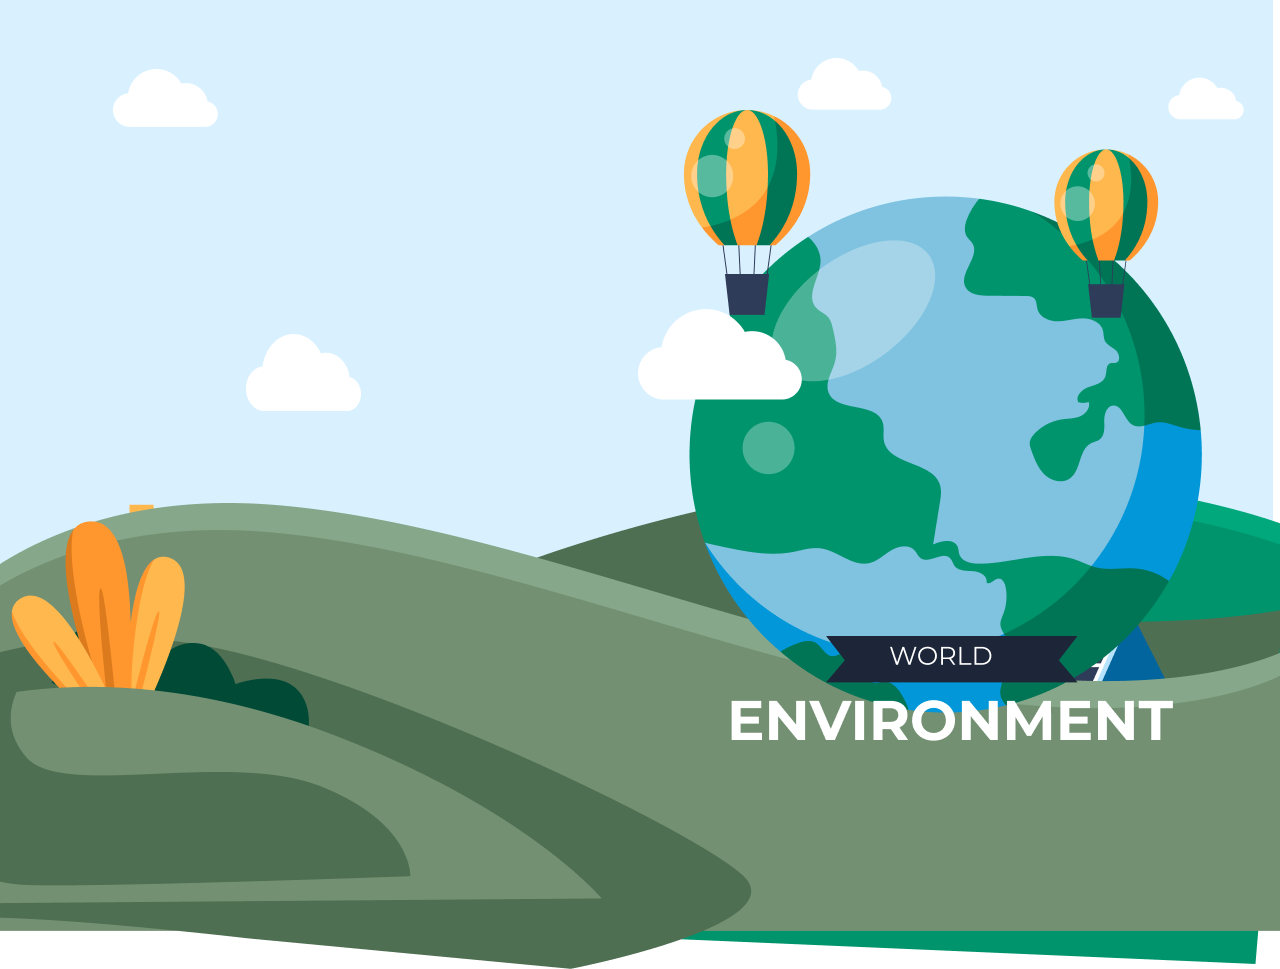
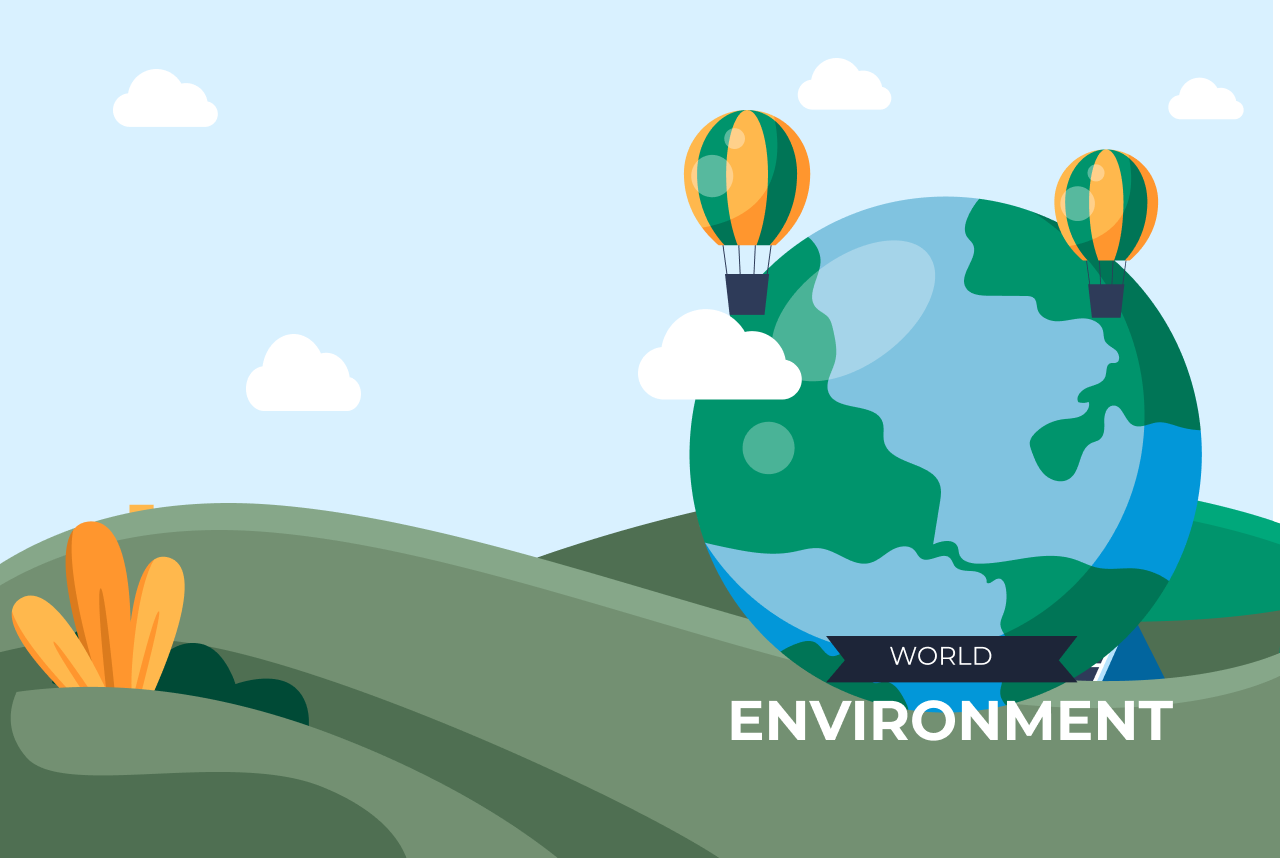
add landing page component

diff --git a/sampah/templates/index.html b/sampah/templates/index.html
@@ -3,26 +3,151 @@
 {% block title %}LAHHGO{% endblock %}
 {% block content %}
 {% include "navbar.html" %}
+<!-- For a more sustainable future -->
 <div class="bg-blue-200 relative w-full h-screen">
-    <img class=" absolute w-full" src="{% static 'landing_hero.png' %}" />
+    <img class=" absolute w-screen" src="{% static 'landing_hero.png' %}" />
     <div class="w-3/4 h-screen ml-10 flex flex-col justify-center">
-    <h1 style='font-size:60px; color:#4F6F52' class="font-bold w-1/2 relative z-20">For a more sustainable future</h1>
-    <h2 style='font-size:40px; color:#4F6F52' class="relative z-20 w-1/2">lets preserve the earth together</h2>
-    <br>
-    <div class="z-20 space-x-4">
-        <button style="color:#3A855D; width:149px;" class="bg-white text-lg font-bold py-2 px-2 rounded-lg shadow-md">Beli</button>
-        <button style="background-color:#4F6F52; width:149px;" class="text-white text-lg font-bold py-2 px-2 rounded-lg shadow-md">Jual</button>
-    </div>
+        <h1 style='font-size:60px; color:#4F6F52' class="font-bold w-1/2 relative z-20">For a more sustainable future</h1>
+        <h2 style='font-size:40px; color:#4F6F52' class="relative z-20 w-1/2">lets preserve the earth together</h2>
+        <br>
+        <div class="z-20 flex flex-row space-x-20 items-center">
+            <div class="flex   space-x-[-15px] size-12">
+                <img class="" src="{% static 'profile.png' %}" alt="Profile">
+                <img class="" src="{% static 'profile.png' %}" alt="Profile">
+                <img class="" src="{% static 'profile.png' %}" alt="Profile">
+            </div>
+            <p class="">
+                Join with <b>4600+ Team</b> and start <br> getting feedbacks right now
+            </p>
+        </div>
+        
+        <div class="z-20 space-x-4 mt-8">
+            <button style="color:#3A855D; width:149px;" class="bg-white text-lg font-bold py-2 px-2 rounded-lg shadow-md font-serif">Beli</button>
+            <button style="background-color:#4F6F52; width:149px;" class="text-white text-lg font-bold py-2 px-2 rounded-lg shadow-md font-serif">Jual</button>
+        </div>
     </div>
 </div>
-<div>
-    {% comment %} <h1>Produk daur ulang terlaris</h1> {% endcomment %}
-    <br/>
-    <div>
-    <h1 >Produk daur ulang terlaris</h1>
-    {% include "cards.html" with path='lego.png' %}
-    </div>
+<br><br><br><br><br><br><br><br><br><br><br><br><br><br>
 
+<!-- Produk daur ulang terlaris -->
+<div class="z-50 bg-green-100 font-sans max-h-screen">
+    <div class="max-w-screen mx-auto py-4">
+        <h2 class=" text-center text-5xl font-semibold mt-4 mb-10 text-[#4F6F52]">Produk daur ulang terlaris</h2>
+        <div class="flex flex-row justify-center gap-12 border-y-2 py-5 border-[#4F6F52] px-4">
+            {% include 'cards.html' with path='cart.svg' %}
+            {% include 'cards.html' with path='cart.svg' %}
+            {% include 'cards.html' with path='cart.svg' %}
+            {% include 'cards.html' with path='cart.svg' %}
+        </div>
+        <h2 class="text-center text-3xl font-semibold mt-4 text-[#4F6F52]">
+            More Product >
+        </h2>
+    </div>
+</div>
+
+
+    <!-- Sampah Terdekat -->
+<div class="z-25 bg-[#4F6F52] font-sans max-h-screen">
+    <div class="max-w-screen mx-auto p-4">
+        <h2 class=" text-center text-5xl font-semibold mt-3 mb-10 text-[#FFFFFF]">Sampah terdekat</h2>
+        <div class="flex flex-row justify-center gap-12 border-y-2 py-5 border-[#fff] px-4">
+            <!-- Card 1 -->
+            <div class="flex flex-row gap-12 justify-start">
+                <div class="bg-[#D2E3C8] rounded-3xl h-128">
+                    <img class="w-250 h-250 rounded-3xl gap-6" src="{% static 'lego.png' %}" alt="">
+                    <div class="mx-4 my-3">
+                        <h3 class="font-serif text-[#4F6F52] text-xl"
+                        >
+                            Keping LAHHGO
+                        </h3>
+                        <p class="font-sans text-[#4F6F52] text-2xl font-semibold">Rp 50.000,00</p>
+                    </div>
+                    <div class="mx-4 my-3 flex flex-row justify-end gap-3">
+                        <button class="rounded-xl bg-[#fff] p-2 w-auto">
+                            <img class="size-6 " src="{% static 'cart.svg' %}" alt="cart"/>
+                        </button>
+                        <button class="bg-[#4F6F52] rounded-xl py-1 px-4 border border-gray-300 shadow-md flex items-center justify-center">
+                            <h4 class="text-center text-xl font-serif text-[#D2E3C8]">
+                                Beli
+                            </h4>
+                        </button>                        
+                    </div>
+                </div>
+            </div>
+            <!-- Card 2 -->
+            <div class="flex flex-row gap-12 justify-start">
+                <div class="bg-[#D2E3C8] rounded-3xl h-128">
+                    <img class="w-250 h-250 rounded-3xl gap-6" src="{% static 'lego.png' %}" alt="">
+                    <div class="mx-4 my-3">
+                        <h3 class="font-serif text-[#4F6F52] text-xl"
+                        >
+                            Keping LAHHGO
+                        </h3>
+                        <p class="font-sans text-[#4F6F52] text-2xl font-semibold">Rp 50.000,00</p>
+                    </div>
+                    <div class="mx-4 my-3 flex flex-row justify-end gap-3">
+                        <button class="rounded-xl bg-[#fff] p-2 w-auto">
+                            <img class="size-6 " src="{% static 'cart.svg' %}" alt="cart"/>
+                        </button>
+                        <button class="bg-[#4F6F52] rounded-xl py-1 px-4 border border-gray-300 shadow-md flex items-center justify-center">
+                            <h4 class="text-center text-xl font-serif text-[#D2E3C8]">
+                                Beli
+                            </h4>
+                        </button>                        
+                    </div>
+                </div>
+            </div>
+            <!-- Card 3 -->
+            <div class="flex flex-row gap-12 justify-start">
+                <div class="bg-[#D2E3C8] rounded-3xl h-128">
+                    <img class="w-250 h-250 rounded-3xl gap-6" src="{% static 'lego.png' %}" alt="">
+                    <div class="mx-4 my-3">
+                        <h3 class="font-serif text-[#4F6F52] text-xl"
+                        >
+                            Keping LAHHGO
+                        </h3>
+                        <p class="font-sans text-[#4F6F52] text-2xl font-semibold">Rp 50.000,00</p>
+                    </div>
+                    <div class="mx-4 my-3 flex flex-row justify-end gap-3">
+                        <button class="rounded-xl bg-[#fff] p-2 w-auto">
+                            <img class="size-6 " src="{% static 'cart.svg' %}" alt="cart"/>
+                        </button>
+                        <button class="bg-[#4F6F52] rounded-xl py-1 px-4 border border-gray-300 shadow-md flex items-center justify-center">
+                            <h4 class="text-center text-xl font-serif text-[#D2E3C8]">
+                                Beli
+                            </h4>
+                        </button>                        
+                    </div>
+                </div>
+            </div>
+            <!-- Card 4 -->
+            <div class="flex flex-row gap-12 justify-start">
+                <div class="bg-[#D2E3C8] rounded-3xl h-128">
+                    <img class="w-250 h-250 rounded-3xl gap-6" src="{% static 'lego.png' %}" alt="">
+                    <div class="mx-4 my-3">
+                        <h3 class="font-serif text-[#4F6F52] text-xl"
+                        >
+                            Keping LAHHGO
+                        </h3>
+                        <p class="font-sans text-[#4F6F52] text-2xl font-semibold">Rp 50.000,00</p>
+                    </div>
+                    <div class="mx-4 my-3 flex flex-row justify-end gap-3">
+                        <button class="rounded-xl bg-[#fff] p-2 w-auto">
+                            <img class="size-6 " src="{% static 'cart.svg' %}" alt="cart"/>
+                        </button>
+                        <button class="bg-[#4F6F52] rounded-xl py-1 px-4 border border-gray-300 shadow-md flex items-center justify-center">
+                            <h4 class="text-center text-xl font-serif text-[#D2E3C8]">
+                                Beli
+                            </h4>
+                        </button>                        
+                    </div>
+                </div>
+            </div>
+        </div>
+        <h2 class="text-center text-3xl font-semibold mt-4 text-[#ffffff]">
+            More Plastic >
+        </h2>
+    </div>
 </div>
 
 {% endblock %}

diff --git a/sampah/templates/cards.html b/sampah/templates/cards.html
@@ -1,10 +1,23 @@
 {% load static %}
-<div class="card rounded-lg shadow-md" style="width: 18rem;">
-  <img class="card-img-top" src="{% static path %}" alt="Card image cap">
-  <div class="card-body">
-    <h5 class="card-text font-bold text-xl">Card title</h5>
-    <p class="card-text text-gray-400 text-md">@JohnDoe</p>
-    <br>
-    <p class="card-text text-sm font-semibold" style="color: #4f6f52">Klik untuk mengedit</p>
+<div class="flex flex-row gap-12 justify-start">
+  <div class="bg-[#4F6F52] rounded-3xl h-128">
+    <img class="w-250 h-250 rounded-3xl gap-6" src="{% static 'lego.png' %}" alt="">
+    <div class="mx-4 my-3">
+        <h3 class="font-serif text-[#D2E3C8] text-xl"
+        >
+            Keping LAHHGO
+        </h3>
+        <p class="font-sans text-[#D2E3C8] text-2xl font-semibold">Rp 50.000,00</p>
+    </div>
+    <div class="mx-4 my-3 flex flex-row justify-end gap-3">
+        <button class="rounded-xl bg-[#fff] p-2 w-auto">
+            <img class="size-6 " src="{% static 'cart.svg' %}" alt="cart"/>
+        </button>
+        <button class="bg-[#D2E3C8] rounded-xl py-1 px-4 border border-gray-300 shadow-md flex items-center justify-center">
+            <h4 class="text-center text-xl font-serif text-[#4F6F52]">
+                Beli
+            </h4>
+      </button>                        
+    </div>
   </div>
 </div>

diff --git a/sampah/templates/card_2.html b/sampah/templates/card_2.html
@@ -1,0 +1,23 @@
+{% load static %}
+<div class="flex flex-row gap-12 justify-start">
+  <div class="bg-[#D2E3C8] rounded-3xl h-128">
+    <img class="w-250 h-250 rounded-3xl gap-6" src="{% static 'tutup-botol.png' %}" alt="">
+    <div class="mx-4 my-3">
+        <h3 class="font-serif text-[#4F6F52] text-xl"
+        >
+            Keping LAHHGO
+        </h3>
+        <p class="font-sans text-[#4F6F52] text-2xl font-semibold">Rp 50.000,00</p>
+    </div>
+    <div class="mx-4 my-3 flex flex-row justify-end gap-3">
+        <button class="rounded-xl bg-[#fff] p-2 w-auto">
+            <img class="size-6 " src="{% static 'cart.svg' %}" alt="cart"/>
+        </button>
+        <button class="bg-[#4F6F52] rounded-xl py-1 px-4 border border-gray-300 shadow-md flex items-center justify-center">
+            <h4 class="text-center text-xl font-serif text-[#D2E3C8]">
+                Beli
+            </h4>
+      </button>                        
+    </div>
+  </div>
+</div>

diff --git a/sampah/templates/navbar.html b/sampah/templates/navbar.html
@@ -2,11 +2,11 @@
   class="flex fixed z-50 w-screen items-center justify-between p-6 bg-opacity-50"
   style="background-color: #d2e3c8;"
 >
-  <div class="font-bold text-xl ml-4">
+  <div class="font-bold text-2xl ml-4 font-serif">
     <a href="#" style="color: #4f6f52">LAHHGO</a>
   </div>
-  <div class="flex flex-row items-center justify-center space-x-8 mr-4 ">
-    <div class="space-x-4">
+  <div class="flex flex-row items-center justify-center space-x-10 mr-4 font-bold">
+    <div class="space-x-10">
       <a href="#" class="">How it Works</a>
       <a href="#" class="">About Us</a>
       <a href="#" class="">Contact</a>
